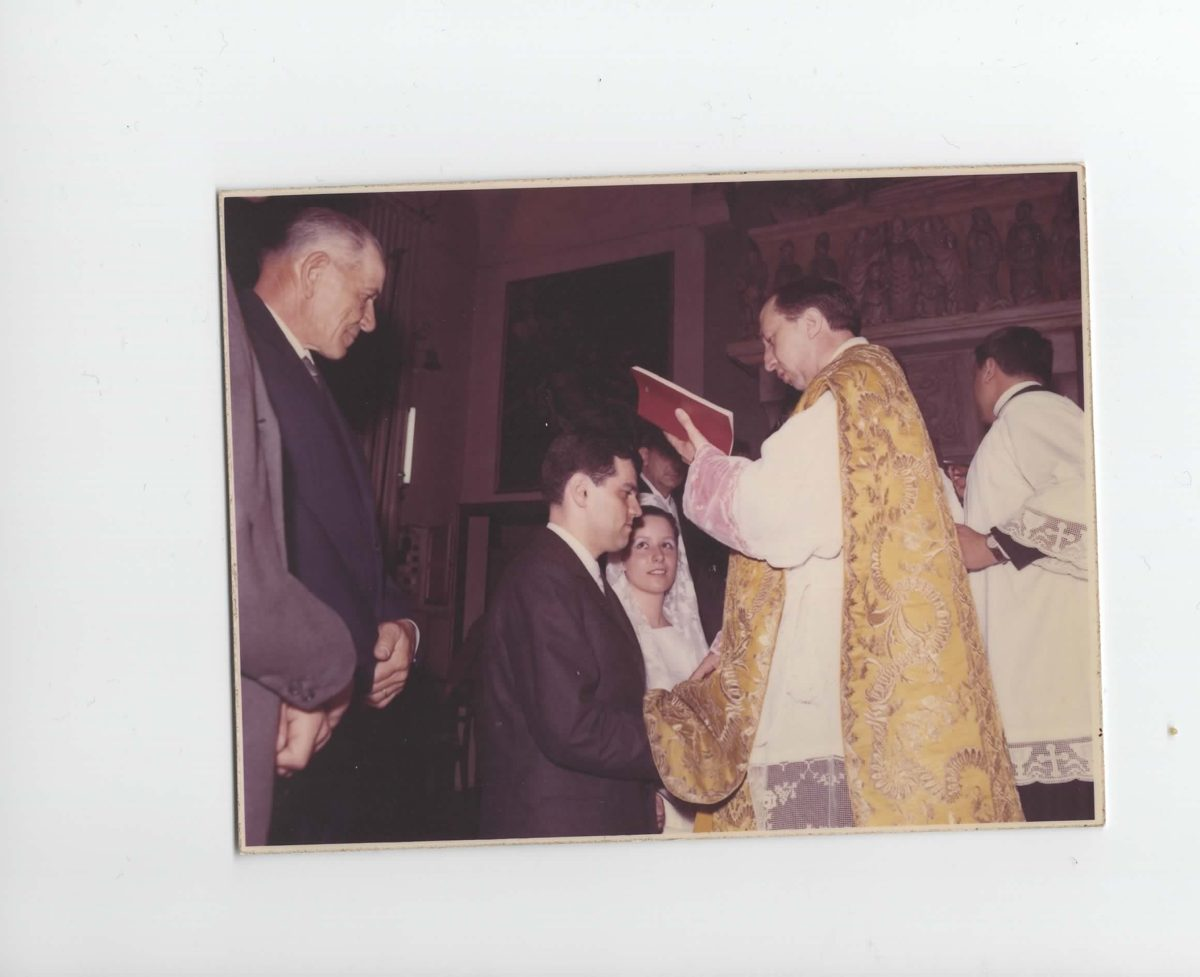
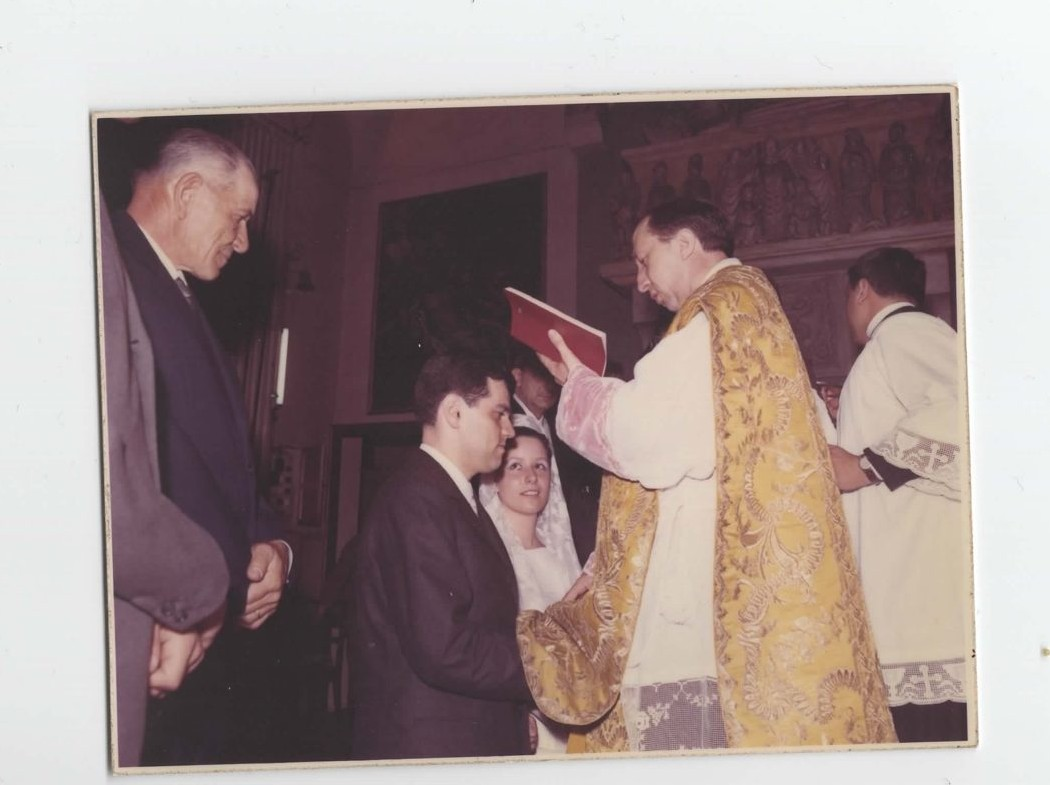
Refine gallery photos and section labels
Crop scanner background and print borders from the 7 gallery photos
(bbox + profile crop, plus inset for the deckled youth prints); add
per-image object-position so previews frame the faces. Rename the press
section to "Articoli e Lettere" (nav: "Articoli"). Drop the ambiguous
"a Milano dal 1947" from the hero subtitle (still covered in the bio).

diff --git a/index.html b/index.html
@@ -57,7 +57,7 @@
       <a href="#incarichi">Incarichi</a>
       <a href="#percorso">Percorso</a>
       <a href="#pubblicazioni">Pubblicazioni</a>
-      <a href="#scritti">Scritti</a>
+      <a href="#scritti">Articoli</a>
       <a href="#galleria">Galleria</a>
       <a href="#contatti">Contatti</a>
     </nav>
@@ -73,7 +73,7 @@
       <h1>Peppino Zola</h1>
       <div class="role">Avvocato · Amministratore pubblico · Educatore</div>
       <div class="rule"></div>
-      <div class="born">Viverone (BI), 30 aprile 1939 — a Milano dal 1947</div>
+      <div class="born">Viverone (BI), 30 aprile 1939</div>
       <p class="lead">Avvocato milanese, amministratore pubblico e educatore. Dal Liceo Berchet all'incontro con don Giussani, dalla città di Milano alla Fiera, una storia di impegno lunga più di sessant'anni.</p>
       <div class="cta">
         <a class="btn" href="#biografia">Leggi la biografia</a>
@@ -179,7 +179,7 @@
 </section>
 
 <section id="scritti" class="reveal">
-  <div class="sec-head"><div class="sec-label">Scritti</div><h2>Rassegna stampa</h2></div>
+  <div class="sec-head"><div class="sec-label">Scritti</div><h2>Articoli e Lettere</h2></div>
   <p class="writings-intro">Editorialista su temi di educazione, famiglia, natalità e vita pubblica. Una selezione dei suoi interventi:</p>
   <div class="art-grid">
     <a class="art" href="https://www.ilsussidiario.net/news/don-giussani-non-ci-ha-insegnato-un-metodo-ma-la-compagnia-di-cristo/2625825/" target="_blank" rel="noopener">
@@ -289,11 +289,11 @@
     <h3>Gli anni della formazione <em>(Milano, anni '50)</em></h3>
     <div class="grid">
       <figure class="g" tabindex="0" role="button" aria-label="Ingrandisci: Milano, i primi anni">
-        <img src="assets/img/giovinezza-esterno.jpg" alt="Peppino Zola ragazzo, in strada a Milano" width="922" height="1200" loading="lazy">
+        <img src="assets/img/giovinezza-esterno.jpg" alt="Peppino Zola ragazzo, in strada a Milano" width="724" height="1035" loading="lazy" style="object-position:center 22%">
         <figcaption>Milano, i primi anni</figcaption>
       </figure>
       <figure class="g" tabindex="0" role="button" aria-label="Ingrandisci: Prima Comunione">
-        <img src="assets/img/giovinezza-ritratto.jpg" alt="Ritratto in studio fotografico nel giorno della Prima Comunione" width="840" height="1200" loading="lazy">
+        <img src="assets/img/giovinezza-ritratto.jpg" alt="Ritratto in studio fotografico nel giorno della Prima Comunione" width="619" height="1051" loading="lazy" style="object-position:center 18%">
         <figcaption>Prima Comunione</figcaption>
       </figure>
     </div>
@@ -303,11 +303,11 @@
     <h3>Famiglia e fede</h3>
     <div class="grid">
       <figure class="g" tabindex="0" role="button" aria-label="Ingrandisci: Il matrimonio con Adriana, 1967">
-        <img src="assets/img/matrimonio.jpg" alt="Peppino Zola e Adriana Mascagni sorridenti in automobile il giorno delle nozze" width="1200" height="955" loading="lazy">
+        <img src="assets/img/matrimonio.jpg" alt="Peppino Zola e Adriana Mascagni sorridenti in automobile il giorno delle nozze" width="1043" height="810" loading="lazy" style="object-position:center 32%">
         <figcaption>Il matrimonio con Adriana, 1967</figcaption>
       </figure>
       <figure class="g" tabindex="0" role="button" aria-label="Ingrandisci: La fede e l'esperienza di CL">
-        <img src="assets/img/comunione-liberazione.jpg" alt="Peppino e Adriana davanti al sacerdote durante una celebrazione in chiesa" width="1200" height="977" loading="lazy">
+        <img src="assets/img/comunione-liberazione.jpg" alt="Peppino e Adriana davanti al sacerdote durante una celebrazione in chiesa" width="1050" height="785" loading="lazy" style="object-position:center 42%">
         <figcaption>La fede e l'esperienza di CL</figcaption>
       </figure>
     </div>
@@ -317,15 +317,15 @@
     <h3>La professione e la vita pubblica</h3>
     <div class="grid">
       <figure class="g" tabindex="0" role="button" aria-label="Ingrandisci: L'avvocato, nello studio">
-        <img src="assets/img/avvocato-scrivania.jpg" alt="Peppino Zola alla scrivania del suo studio di avvocato, in bianco e nero" width="1200" height="910" loading="lazy">
+        <img src="assets/img/avvocato-scrivania.jpg" alt="Peppino Zola alla scrivania del suo studio di avvocato, in bianco e nero" width="1200" height="910" loading="lazy" style="object-position:center 20%">
         <figcaption>L'avvocato, nello studio</figcaption>
       </figure>
       <figure class="g" tabindex="0" role="button" aria-label="Ingrandisci: Alla guida dell'Ente Fiera Milano (1999–2001)">
-        <img src="assets/img/fiera-milano.jpg" alt="Peppino Zola alla scrivania, con le bandiere di Fiera Milano, dell'Italia e dell'Europa" width="792" height="1200" loading="lazy">
+        <img src="assets/img/fiera-milano.jpg" alt="Peppino Zola alla scrivania, con le bandiere di Fiera Milano, dell'Italia e dell'Europa" width="792" height="1200" loading="lazy" style="object-position:center 28%">
         <figcaption>Alla guida dell'Ente Fiera Milano (1999–2001)</figcaption>
       </figure>
       <figure class="g" tabindex="0" role="button" aria-label="Ingrandisci: Nella vita pubblica milanese">
-        <img src="assets/img/vita-pubblica.jpg" alt="Peppino Zola conversa sorridendo con altre personalità durante un incontro pubblico" width="1200" height="852" loading="lazy">
+        <img src="assets/img/vita-pubblica.jpg" alt="Peppino Zola conversa sorridendo con altre personalità durante un incontro pubblico" width="1200" height="852" loading="lazy" style="object-position:center 35%">
         <figcaption>Nella vita pubblica milanese</figcaption>
       </figure>
     </div>
